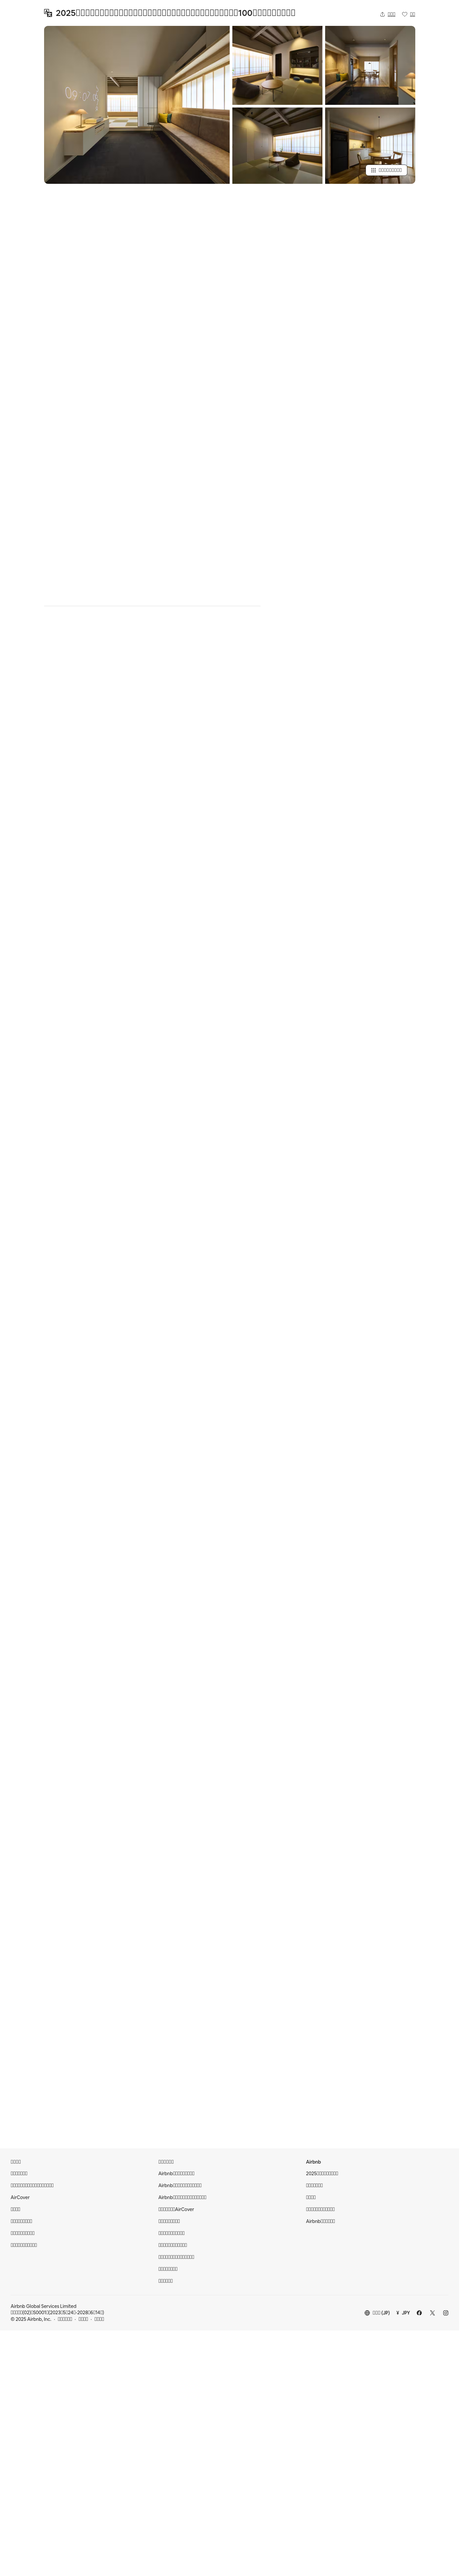
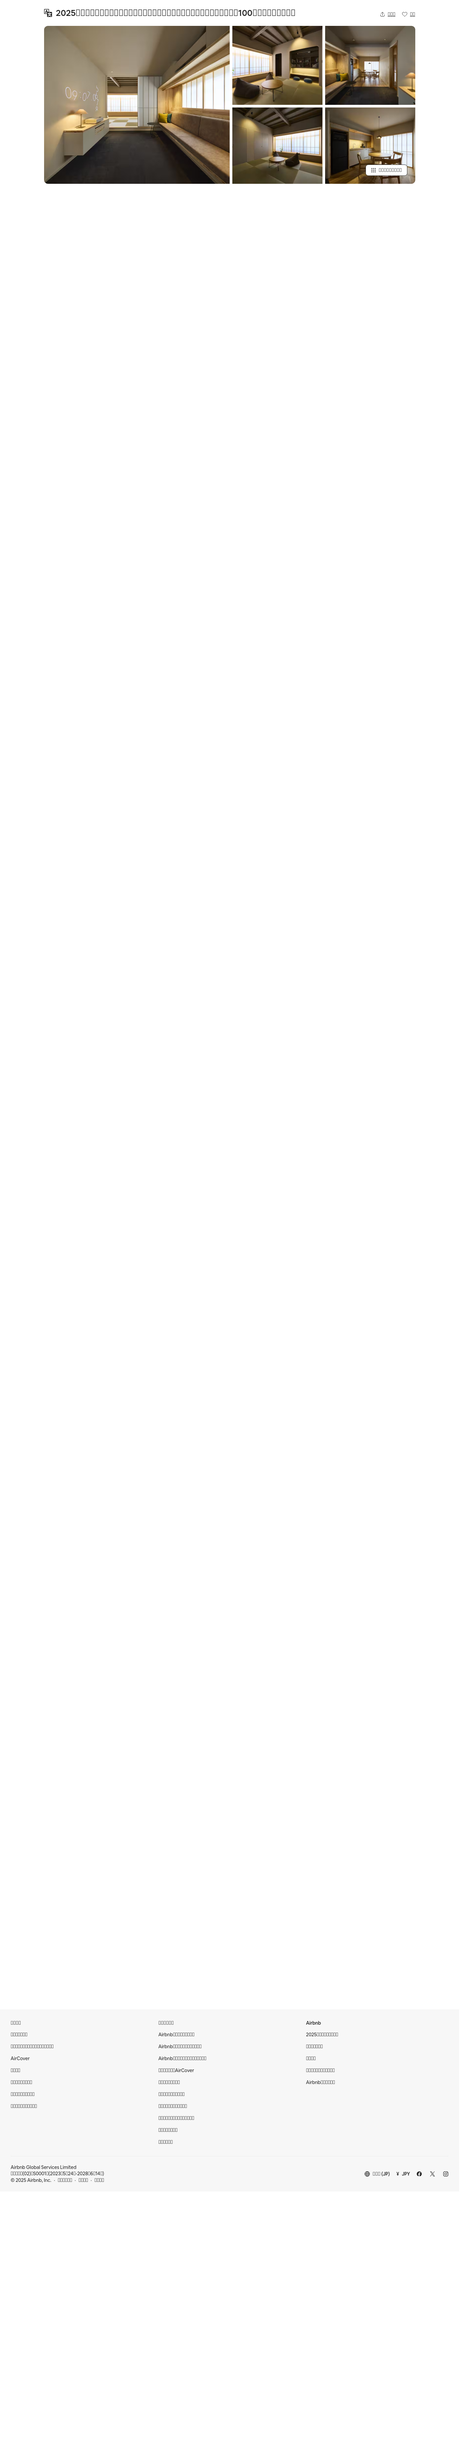
resolve conflict by taking local version

diff --git a/scrape_airbnb_reviews.py b/scrape_airbnb_reviews.py
@@ -1,4 +1,6 @@
 
+#!/usr/bin/env python3
+
 import os
 
 import time
@@ -11,15 +13,21 @@ from playwright.sync_api import sync_playwright
 
 
 
-LISTING_URL = os.getenv("LISTING_URL", "https://www.airbnb.jp/rooms/1435115775752551185")
+LISTING_URL = os.getenv(
+
+    "LISTING_URL",
+
+    "https://www.airbnb.jp/rooms/1435115775752551185",
+
+)
 
 MAX_REVIEWS = int(os.getenv("MAX_REVIEWS", "300"))
+
+
 
 OUTPUT_DIR = Path("output")
 
 VIDEO_DIR = OUTPUT_DIR / "videos"
-
-
 
 OUTPUT_DIR.mkdir(parents=True, exist_ok=True)
 
@@ -27,29 +35,85 @@ VIDEO_DIR.mkdir(parents=True, exist_ok=True)
 
 
 
-def log(msg: str):
+
+
+def log(msg: str) -> None:
 
     print(msg, flush=True)
 
 
 
-def shot(page, name: str):
 
-    """各ステップでスクショを取る"""
+
+def shot(page, name: str) -> None:
 
     path = OUTPUT_DIR / f"{name}.png"
 
-    page.screenshot(path=str(path), full_page=True)
+    try:
 
-    log(f"[SHOT] {path}")
+        page.screenshot(path=str(path), full_page=True)
+
+        log(f"[SHOT] {path}")
+
+    except Exception as e:
+
+        log(f"[SHOT-ERR] {name}: {e}")
 
 
 
-def main():
+
+
+def close_translation_popup(page) -> None:
+
+    """最初に出る『翻訳しますか？』ポップアップを閉じる"""
+
+    log("[1.1] try close translation popup if exists")
+
+    try:
+
+        # 「翻訳」の文字を含むダイアログを優先して探す
+
+        dialog = page.locator("div[role='dialog']").filter(has_text="翻訳")
+
+        if dialog.count() == 0:
+
+            # なければ一番上の dialog を見る（初回ロード直後なら翻訳ポップアップのはず）
+
+            dialog = page.locator("div[role='dialog']").first
+
+
+
+        if dialog.count() == 0:
+
+            log("[1.1] no dialog found (maybe no popup)")
+
+            return
+
+
+
+        # ダイアログ内のボタン（左上の X を含む）をクリックして閉じる
+
+        btn = dialog.locator("button").first
+
+        btn.click()
+
+        time.sleep(1)
+
+        shot(page, "step1_popup_closed")
+
+        log("[1.1] translation popup closed")
+
+    except Exception as e:
+
+        log(f"[WARN] could not close translation popup: {e}")
+
+
+
+
+
+def main() -> None:
 
     log("[0] launch browser with Xvfb + video recording")
-
-
 
     with sync_playwright() as p:
 
@@ -67,29 +131,53 @@ def main():
 
 
 
+        # 1) ページを開く
+
         log(f"[1] goto {LISTING_URL}")
 
         page.goto(LISTING_URL, wait_until="networkidle", timeout=90_000)
+
+        time.sleep(3)
 
         shot(page, "step1_loaded")
 
 
 
-        # ===== レビューを開く強化版 =====
+        # 1.1) 翻訳ポップアップがあれば閉じる
+
+        close_translation_popup(page)
+
+
+
+        # 1.5) レビューが見える位置までスクロール
+
+        log("[1.5] scroll down to reviews area before clicking")
+
+        for i in range(8):
+
+            page.mouse.wheel(0, 1200)
+
+            time.sleep(0.6)
+
+        shot(page, "step1_scrolled")
+
+
+
+        # 2) レビューモーダルを開く
 
         log("[2] try open reviews modal")
 
-
-
         selectors = [
 
-            '[data-testid="pdp-reviews-modal-trigger"]',
+            "[data-testid='pdp-reviews-modal-trigger']",
 
-            'button:has-text("レビュー")',
+            "button:has-text('すべてのレビューを表示')",
 
-            'a:has-text("レビュー")',
+            "a:has-text('すべてのレビューを表示')",
 
-            'div:has-text("件のレビュー")',
+            "button:has-text('レビュー')",
+
+            "a:has-text('レビュー')",
 
         ]
 
@@ -97,7 +185,7 @@ def main():
 
         modal_opened = False
 
-        for sel in selectors:
+        for idx, sel in enumerate(selectors):
 
             log(f"[TRY] selector: {sel}")
 
@@ -105,13 +193,15 @@ def main():
 
                 btn = page.locator(sel).first
 
-                btn.wait_for(state="visible", timeout=8000)
+                btn.scroll_into_view_if_needed(timeout=5_000)
+
+                btn.wait_for(state="visible", timeout=5_000)
 
                 btn.click()
 
                 time.sleep(2)
 
-                shot(page, f"step2_click_{sel.replace('/', '_')}")
+                shot(page, f"step2_clicked_{idx}")
 
                 modal_opened = True
 
@@ -143,13 +233,11 @@ def main():
 
 
 
-        # ===== モーダル内スクロール =====
+        # 3) モーダル内をスクロールしてレビュー読み込み
 
-        log("[3] scroll reviews")
+        log("[3] scroll reviews inside modal")
 
         dialog = page.locator("div[role='dialog']").first
-
-
 
         for i in range(25):
 
@@ -163,19 +251,23 @@ def main():
 
             time.sleep(0.8)
 
-            shot(page, f"step3_scroll_{i}")
+            if i in (0, 10, 20):
+
+                shot(page, f"step3_scroll_{i}")
 
 
 
-        # ===== 「すべて表示」をできるだけ全部クリック =====
+        # 4) 「すべて表示」をできるだけクリック
 
         log("[4] expand all 'すべて表示'")
 
-        for i in range(5):
+        for _ in range(5):
 
             btns = page.get_by_text("すべて表示", exact=False)
 
-            for j in range(btns.count()):
+            count = btns.count()
+
+            for j in range(count):
 
                 try:
 
@@ -187,11 +279,9 @@ def main():
 
                     pass
 
-            shot(page, f"step4_expand_{i}")
 
 
-
-        # ===== レビュー抽出（シンプル版） =====
+        # 5) レビュー抽出
 
         log("[5] extract reviews")
 
@@ -225,11 +315,15 @@ def main():
 
                 continue
 
+
+
             lines = [l.strip() for l in txt.splitlines() if l.strip()]
 
             if not lines:
 
                 continue
+
+
 
             name = lines[0]
 
@@ -241,7 +335,7 @@ def main():
 
 
 
-        # ===== CSV 保存 =====
+        # CSV 保存
 
         csv_path = OUTPUT_DIR / "reviews.csv"
 
@@ -259,6 +353,20 @@ def main():
 
 
 
+        # MD 保存
+
+        md_path = OUTPUT_DIR / "reviews.md"
+
+        with md_path.open("w", encoding="utf-8") as f:
+
+            for r in reviews:
+
+                f.write(f"## {r['name']} ({r['date']})\n\n{r['text']}\n\n---\n\n")
+
+        log(f"[DONE] MD  -> {md_path}")
+
+
+
         log("[6] closing browser (finalize video)")
 
         context.close()
@@ -266,10 +374,4 @@ def main():
         browser.close()
 
         log("[DONE] finished with video")
-
-
-
-if __name__ == "__main__":
-
-    main()
 
